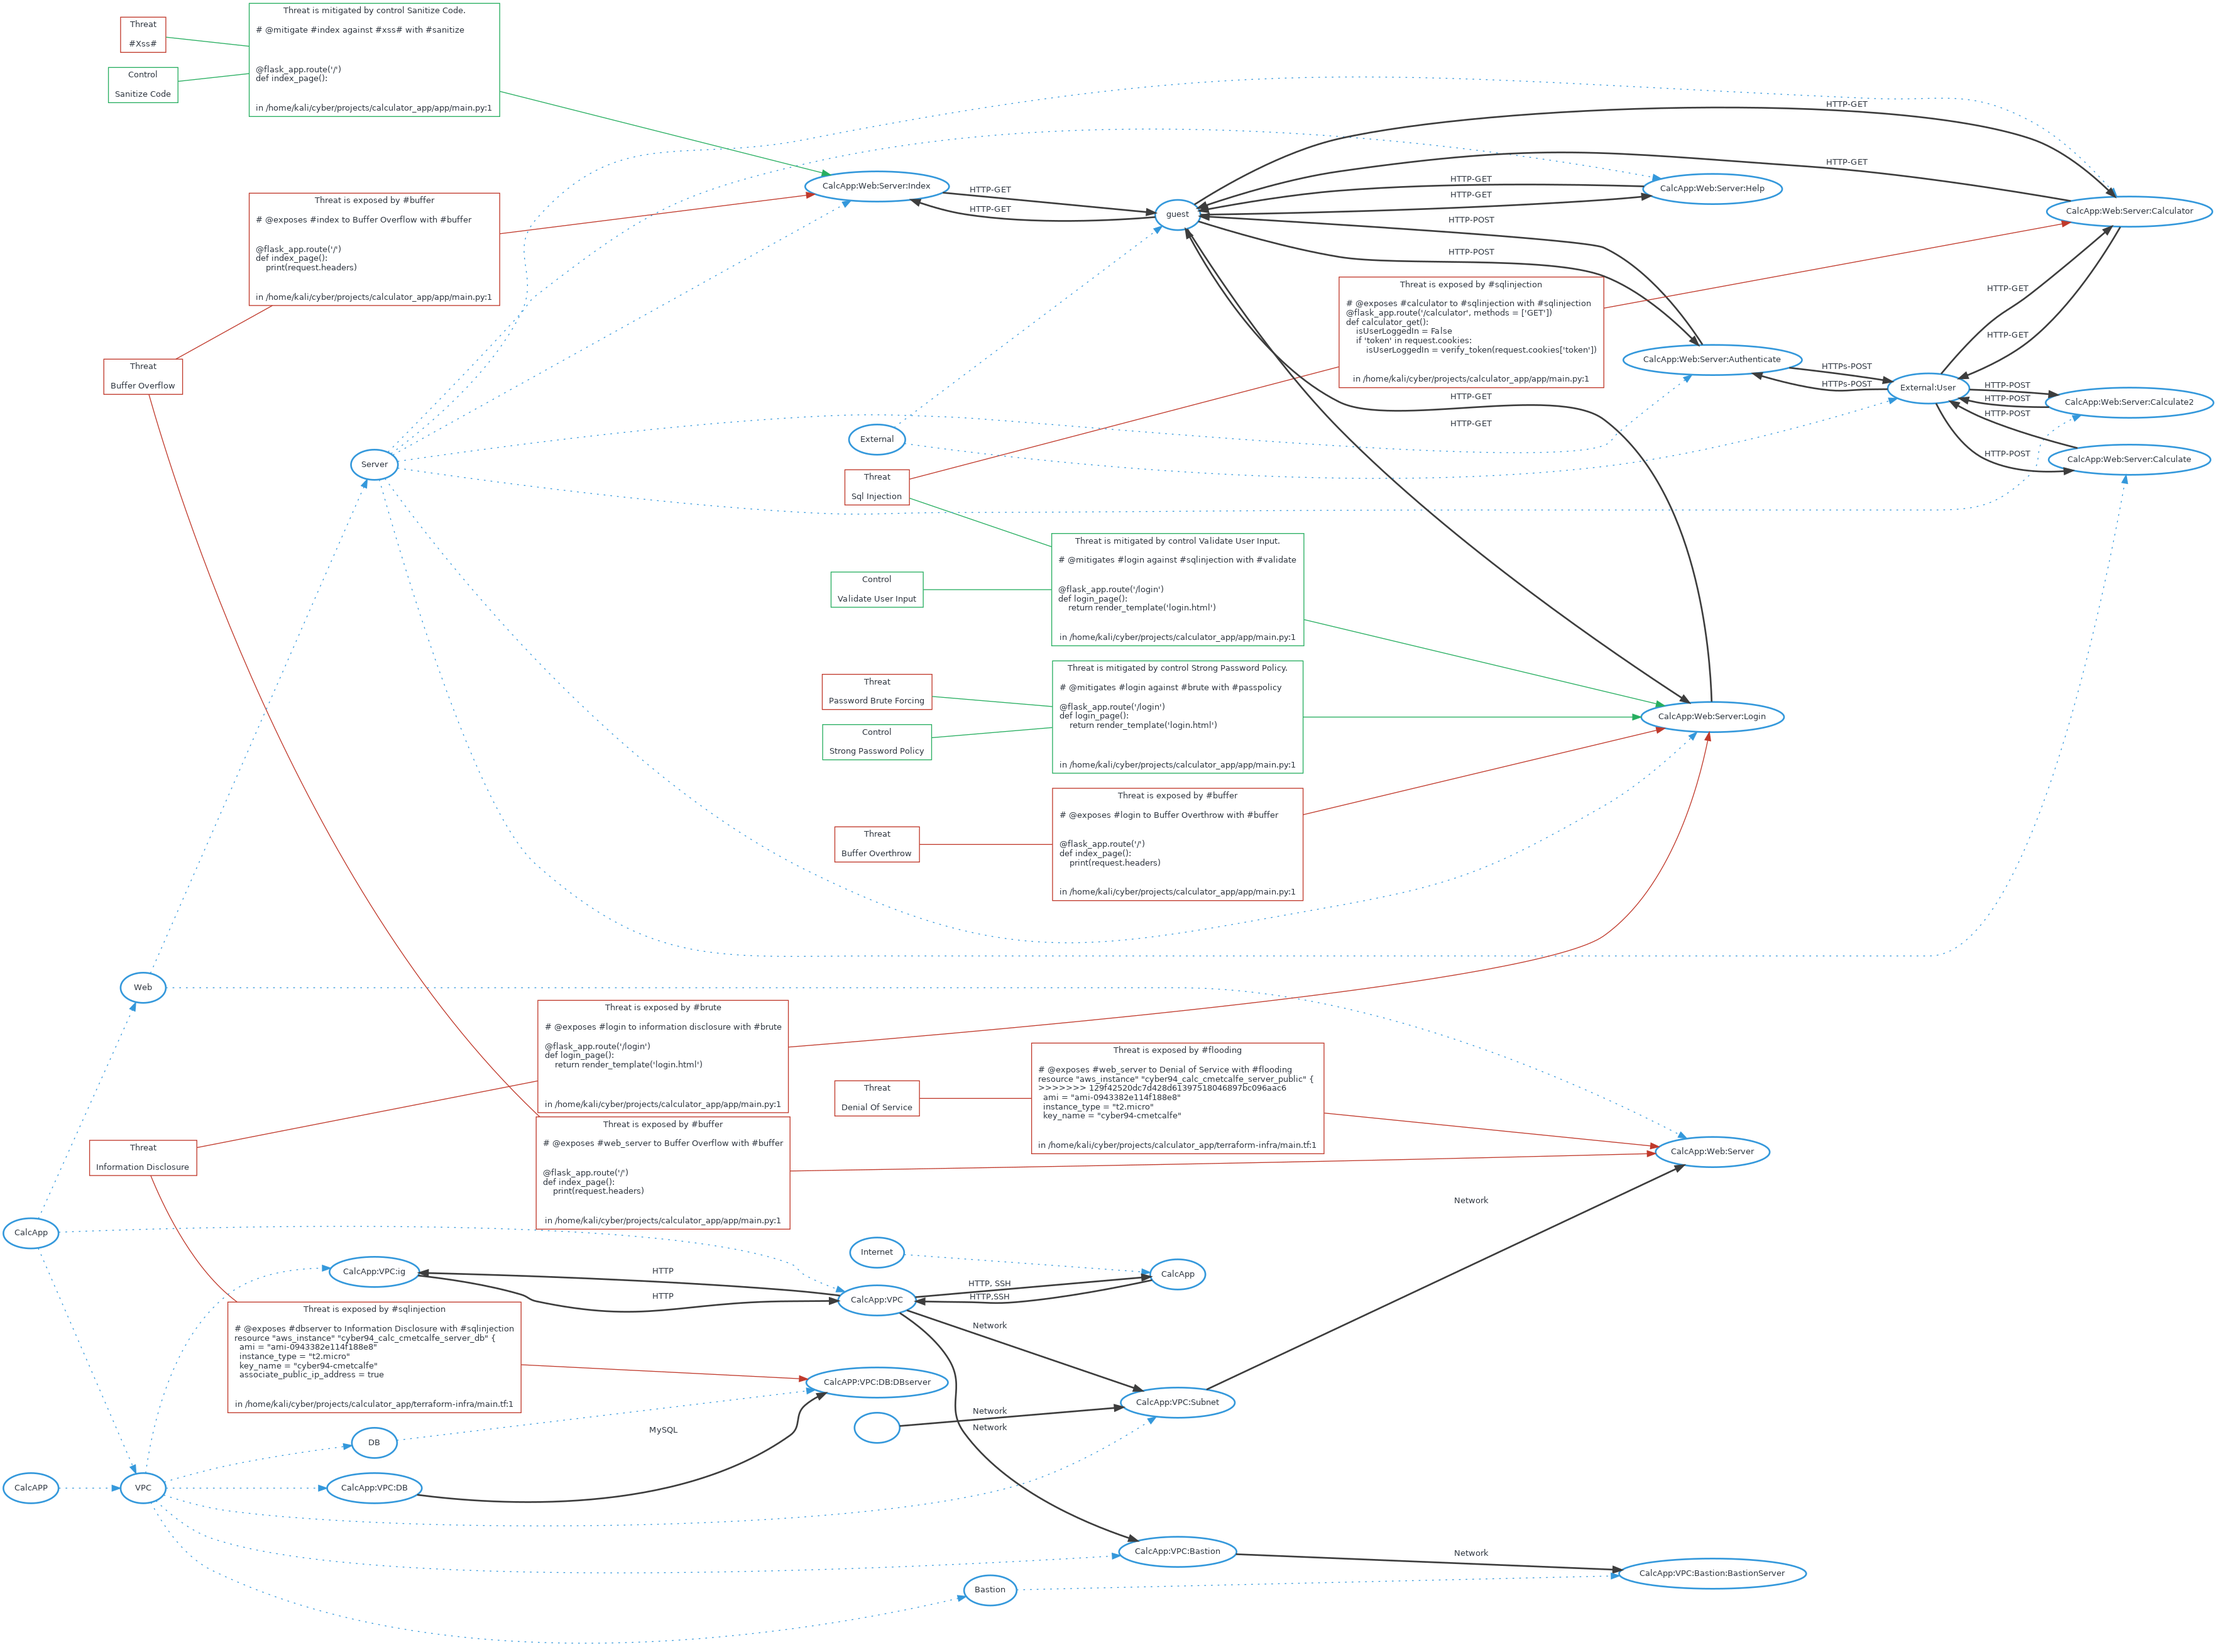
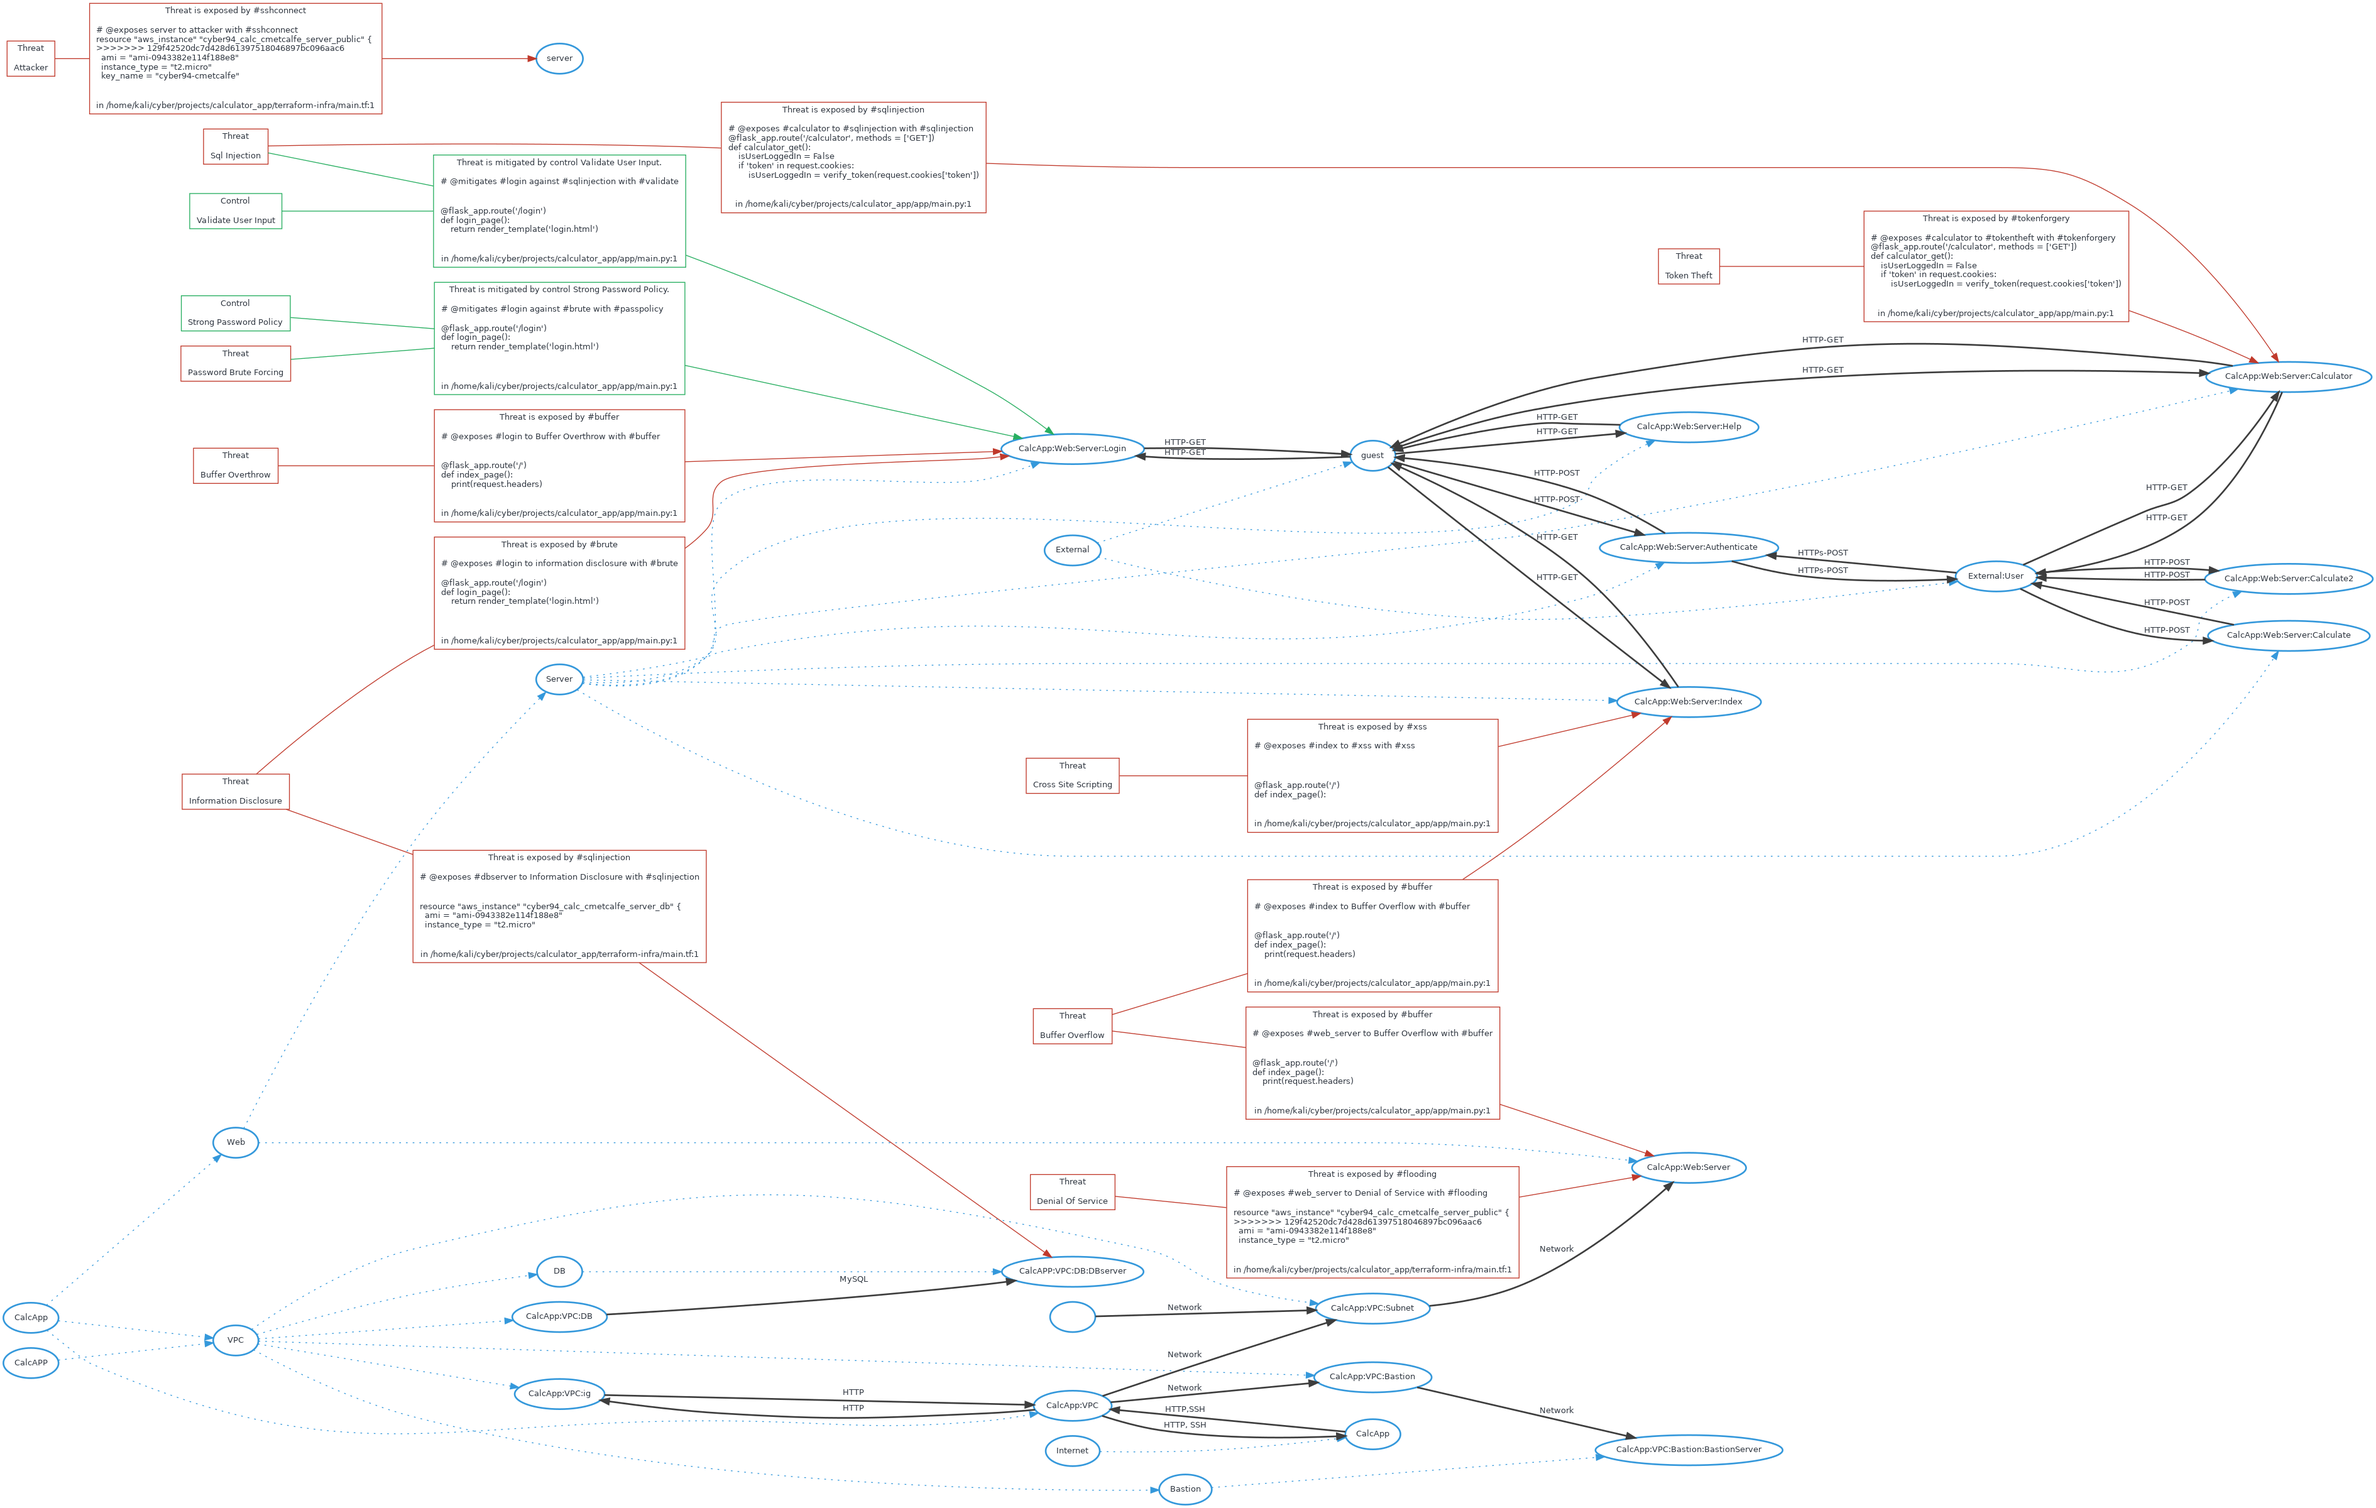
add threats

diff --git a/app/main.py b/app/main.py
@@ -10,7 +10,7 @@ flask_app = Flask(__name__)
 # @component External:Guest (#guest)
 # @component External:User (#user)
 
-
+# @threat Token Theft (#tokentheft)
 def verify_token(token):
     if token:
         decoded_token = jwt.decode(token, SECRET_KEY, "HS256")
@@ -27,7 +27,7 @@ def verify_token(token):
 
 # @threat Cross Site Scripting (#xss)
 # @control Sanitize Code (#sanitize)
-# @mitigate #index against #xss# with #sanitize
+# @exposes #index to #xss with #xss
 
 # @threat Buffer overflow (#buffer)
 # @exposes #index to Buffer Overflow with #buffer
@@ -113,6 +113,7 @@ def authenticate_users():
 # @connects #calculator to #user with HTTP-GET
 
 # @exposes #calculator to #sqlinjection with #sqlinjection
+# @exposes #calculator to #tokentheft with #tokenforgery
 @flask_app.route('/calculator', methods = ['GET'])
 def calculator_get():
     isUserLoggedIn = False

diff --git a/ThreatModel.md b/ThreatModel.md
@@ -10,6 +10,20 @@ A threatspec project.
 
 # Exposures
 
+## Cross site scripting against CalcApp:Web:Server:Index
+#xss
+
+```
+# @exposes #index to #xss with #xss
+
+
+
+@flask_app.route('/')
+def index_page():
+
+```
+/home/kali/cyber/projects/calculator_app/app/main.py:1
+
 ## Buffer overflow against CalcApp:Web:Server:Index
 #buffer
 
@@ -80,11 +94,39 @@ def calculator_get():
 ```
 /home/kali/cyber/projects/calculator_app/app/main.py:1
 
+## Token theft against CalcApp:Web:Server:Calculator
+#tokenforgery
+
+```
+# @exposes #calculator to #tokentheft with #tokenforgery
+@flask_app.route('/calculator', methods = ['GET'])
+def calculator_get():
+    isUserLoggedIn = False
+    if 'token' in request.cookies:
+        isUserLoggedIn = verify_token(request.cookies['token'])
+
+```
+/home/kali/cyber/projects/calculator_app/app/main.py:1
+
 ## Denial of service against CalcApp:Web:Server
 #flooding
 
 ```
 # @exposes #web_server to Denial of Service with #flooding
+
+resource "aws_instance" "cyber94_calc_cmetcalfe_server_public" {
+>>>>>>> 129f42520dc7d428d61397518046897bc096aac6
+  ami = "ami-0943382e114f188e8"
+  instance_type = "t2.micro"
+
+```
+/home/kali/cyber/projects/calculator_app/terraform-infra/main.tf:1
+
+## Attacker against server
+#sshconnect
+
+```
+# @exposes server to attacker with #sshconnect
 resource "aws_instance" "cyber94_calc_cmetcalfe_server_public" {
 >>>>>>> 129f42520dc7d428d61397518046897bc096aac6
   ami = "ami-0943382e114f188e8"
@@ -99,11 +141,11 @@ resource "aws_instance" "cyber94_calc_cmetcalfe_server_public" {
 
 ```
 # @exposes #dbserver to Information Disclosure with #sqlinjection
+
+
 resource "aws_instance" "cyber94_calc_cmetcalfe_server_db" {
   ami = "ami-0943382e114f188e8"
   instance_type = "t2.micro"
-  key_name = "cyber94-cmetcalfe"
-  associate_public_ip_address = true
 
 ```
 /home/kali/cyber/projects/calculator_app/terraform-infra/main.tf:1
@@ -116,20 +158,6 @@ resource "aws_instance" "cyber94_calc_cmetcalfe_server_db" {
 
 
 # Mitigations
-
-## #xss# against CalcApp:Web:Server:Index mitigated by Sanitize code
-
-
-```
-# @mitigate #index against #xss# with #sanitize
-
-
-
-@flask_app.route('/')
-def index_page():
-
-```
-/home/kali/cyber/projects/calculator_app/app/main.py:1
 
 ## Sql injection against CalcApp:Web:Server:Login mitigated by Validate user input
 
@@ -493,10 +521,10 @@ Network
 ```
 # @connects #subnet to #web_server with Network
 
+
 resource "aws_instance" "cyber94_calc_cmetcalfe_server_public" {
 >>>>>>> 129f42520dc7d428d61397518046897bc096aac6
   ami = "ami-0943382e114f188e8"
-  instance_type = "t2.micro"
 
 ```
 /home/kali/cyber/projects/calculator_app/terraform-infra/main.tf:1
@@ -507,10 +535,10 @@ Network
 ```
 # @connects #webserver to #subnet with Network
 
+
 resource "aws_instance" "cyber94_calc_cmetcalfe_server_public" {
 >>>>>>> 129f42520dc7d428d61397518046897bc096aac6
   ami = "ami-0943382e114f188e8"
-  instance_type = "t2.micro"
 
 ```
 /home/kali/cyber/projects/calculator_app/terraform-infra/main.tf:1
@@ -549,10 +577,10 @@ MySQL
 ```
 # @connects #db to #dbserver with MySQL
 
+
+
 resource "aws_instance" "cyber94_calc_cmetcalfe_server_db" {
   ami = "ami-0943382e114f188e8"
-  instance_type = "t2.micro"
-  key_name = "cyber94-cmetcalfe"
 
 ```
 /home/kali/cyber/projects/calculator_app/terraform-infra/main.tf:1
@@ -560,13 +588,15 @@ resource "aws_instance" "cyber94_calc_cmetcalfe_server_db" {
 
 # Components
 
-## CalcApp:Web:Server:Index
-
 ## CalcApp:Web:Server:Login
+
+## CalcApp:Web:Server:Index
 
 ## CalcApp:Web:Server
 
 ## CalcApp:Web:Server:Calculator
+
+## server
 
 ## CalcAPP:VPC:DB:DBserver
 
@@ -601,13 +631,13 @@ resource "aws_instance" "cyber94_calc_cmetcalfe_server_db" {
 
 # Threats
 
-## #xss#
-
-
 ## Sql injection
 
 
 ## Password brute forcing
+
+
+## Cross site scripting
 
 
 ## Buffer overflow
@@ -619,13 +649,17 @@ resource "aws_instance" "cyber94_calc_cmetcalfe_server_db" {
 ## Information disclosure
 
 
+## Token theft
+
+
 ## Denial of service
+
+
+## Attacker
 
 
 
 # Controls
-
-## Sanitize code
 
 ## Validate user input
 
